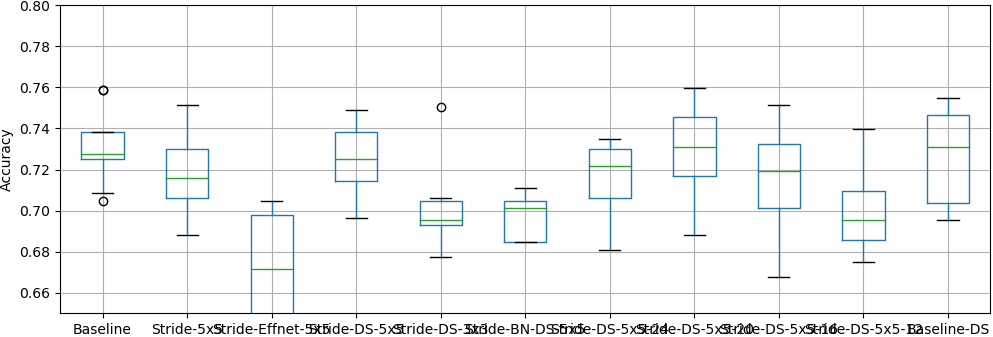
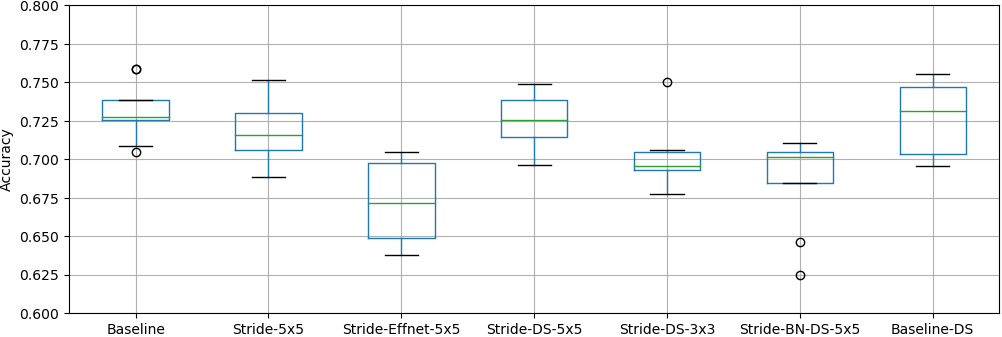
report: Split out the non-width models

diff --git a/microesc/report.py b/microesc/report.py
@@ -87,7 +87,7 @@ def get_accuracies(confusions):
     assert len(accs) == 9, len(accs) 
     return pandas.Series(accs) 
 
-def plot_accuracy_comparison(experiments, ylim=(0.65, 0.80), figsize=(12, 4)):
+def plot_accuracy_comparison(experiments, ylim=(0.60, 0.80), figsize=(12, 4)):
 
     df = experiments.copy()
     df.index = experiments.nickname
@@ -104,7 +104,7 @@ def plot_accuracy_comparison(experiments, ylim=(0.65, 0.80), figsize=(12, 4)):
 
     return fig
 
-def plot_accuracy_vs_compute(experiments, ylim=(0.65, 0.80),
+def plot_accuracy_vs_compute(experiments, ylim=(0.60, 0.80),
                                 perf_metric='utilization', figsize=(12,8)):
     # TODO: color experiment groups
     # TODO: add error bars?
@@ -228,15 +228,15 @@ def main():
     out_dir = args.out_dir
 
     df = load_results(input_dir)
-    acc = df.confusions_test.apply(get_accuracies).mean(axis=1)
-    df['test_acc_mean'] = acc
+
+    df['val_acc_mean'] = df.confusions_val.apply(get_accuracies).mean(axis=1)
+    df['test_acc_mean'] = df.confusions_test.apply(get_accuracies).mean(axis=1)
     df = df.sort_index()
 
     # TODO: add std-dev
+    df['foreground_val_acc_mean'] = df.confusions_val_foreground.apply(get_accuracies).mean(axis=1)
     df['foreground_test_acc_mean'] = df.confusions_test_foreground.apply(get_accuracies).mean(axis=1)
     df['background_test_acc_mean'] = df.confusions_test_background.apply(get_accuracies).mean(axis=1)
-
-
 
 
     #df['grouped_test_acc_mean'] = grouped_confusion(df.confusions_test, groups).apply(get_accuracies).mean(axis=1)
@@ -263,18 +263,22 @@ def main():
     else:
         df['utilization'] = 0.0
 
-    print('res\n', df[['nickname', 'test_acc_mean', 'maccs_frame', 'foreground_test_acc_mean', 'background_test_acc_mean']])
+    print('res\n', df[['nickname', 'maccs_frame', 'test_acc_mean', 'val_acc_mean']])
 
     def save(fig, name):
         p = os.path.join(out_dir, name)
         fig.savefig(p, bbox_inches='tight', pad_inches=0)
 
-    fig = plot_accuracy_comparison(df)
+
+    # Split the variations from all models
+    width_variations = df.nickname.str.startswith('Stride-DS-5x5-')
+    fig = plot_accuracy_comparison(df[width_variations != True])
     save(fig, 'models_accuracy.png')
 
     perf_metric = 'maccs_frame' if args.skip_device else 'utilization'
     fig = plot_accuracy_vs_compute(df, perf_metric=perf_metric)
     save(fig, 'models_efficiency.png')
+
 
     classnames = urbansound8k.classnames
     best = df.sort_values('test_acc_mean', ascending=False).head(1).iloc[0]

diff --git a/report/pyincludes/results.tex b/report/pyincludes/results.tex
@@ -1,17 +1,13 @@
-\begin{tabular}{llrrrr}
+\begin{tabular}{lrrrr}
 \toprule
-{} &              Model &  CPU (\%) &  Accuracy &  FG Accuracy &  BG Accuracy \\
+             Model &  CPU (\%) &  Accuracy &  FG Accuracy &  BG Accuracy \\
 \midrule
-0  &           Baseline &        0 &      73.1 &         84.3 &         49.6 \\
-1  &         Stride-5x5 &        0 &      71.9 &         82.1 &         50.2 \\
-2  &  Stride-Effnet-5x5 &        0 &      67.1 &         75.5 &         49.5 \\
-3  &      Stride-DS-5x5 &        0 &      72.5 &         81.3 &         54.0 \\
-4  &      Stride-DS-3x3 &        0 &      70.1 &         79.4 &         50.6 \\
-5  &   Stride-BN-DS-5x5 &        0 &      68.6 &         77.7 &         49.3 \\
-6  &   Stride-DS-5x5-24 &        0 &      71.5 &         81.3 &         50.7 \\
-7  &   Stride-DS-5x5-20 &        0 &      72.9 &         81.9 &         53.7 \\
-8  &   Stride-DS-5x5-16 &        0 &      71.6 &         80.9 &         51.8 \\
-9  &   Stride-DS-5x5-12 &        0 &      70.0 &         79.2 &         50.4 \\
-10 &        Baseline-DS &        0 &      72.7 &         84.0 &         48.8 \\
+          Baseline &        0 &      73.1 &         84.3 &         49.6 \\
+        Stride-5x5 &        0 &      71.9 &         82.1 &         50.2 \\
+ Stride-Effnet-5x5 &        0 &      67.1 &         75.5 &         49.5 \\
+     Stride-DS-5x5 &        0 &      72.5 &         81.3 &         54.0 \\
+     Stride-DS-3x3 &        0 &      70.1 &         79.4 &         50.6 \\
+  Stride-BN-DS-5x5 &        0 &      68.6 &         77.7 &         49.3 \\
+       Baseline-DS &        0 &      72.7 &         84.0 &         48.8 \\
 \bottomrule
 \end{tabular}

diff --git a/report/pyincludes/results.py b/report/pyincludes/results.py
@@ -7,6 +7,9 @@ import yaml
 df = pandas.read_csv('results/results.csv')
 print(df)
 
+width_variations = df.nickname.str.startswith('Stride-DS-5x5-')
+df = df[width_variations != True]
+
 table = pandas.DataFrame({
     'Model': df.nickname,
     'CPU (%)': (df.utilization * 100).astype(int),
@@ -15,7 +18,7 @@ table = pandas.DataFrame({
     'BG Accuracy': (df.background_test_acc_mean * 100).round(1),
 }, index=df.index)
 
-out = table.to_latex(header=True, index=True)
+out = table.to_latex(header=True, index=False)
 print(out)
 
 outpath = sys.argv[1] 

diff --git a/microesc/test.py b/microesc/test.py
@@ -203,7 +203,7 @@ def main():
     print("Found {} experiments across {} folds", n_folds, n_experiments)
 
     best = pick_best(history)
-    print('Best models\n', best[['epoch', 'voted_val_acc']])
+    print('Best models\n', best[['epoch', 'fold', 'voted_val_acc']])
 
     print('Computing model info')
     def get_stats(row):

diff --git a/report/report.md b/report/report.md
@@ -1282,17 +1282,11 @@ which would be ignored if only relying on the theoretical MACC number.
 ![Test accuracy of the different models](./results/models_accuracy.png){ height=30% }
 
 \begin{table}
+\centering
 \input{pyincludes/results.tex}
 \caption{Results for the compared models}
 \label{table:results}
 \end{table}
-
-
-`TODO: add results with Baseline with Depthwise Separable`
-
-`TODO: add results of different amounts of conv kernels for DS-5x5`
-
-`TODO: add results with Effnet (spatially separable)`
 
 ![Accuracy versus compute of different models](./results/models_efficiency.png){ height=30% }
 
@@ -1302,7 +1296,9 @@ which would be ignored if only relying on the theoretical MACC number.
 
 ![Confusion matrix in reduced groups with only foreground sounds](./results/grouped_confusion_test_foreground.png){ height=30% }
 
-`TODO: add error analysis. Are misclassifications marked as low-confidence?`
+`TODO: add error analysis plots`
+
+`TODO: plot MAC versus compute time`
 
 `TODO: plot training curves over epochs`
 

diff --git a/TODO.md b/TODO.md
@@ -10,9 +10,8 @@ Feedback needed
 
 Results
 
-- Move results output to report/results
-- Measure runtime on device for latest models
 - Split plots into different architectures, and different Strided-DS widths 
+- Measure runtime on device for latest models
 - Use Strided-DS-24 as chosen model (confusion matrix etc), instead of auto "best"
 - Make plots a bit prettier
 
@@ -45,6 +44,7 @@ Do they explain the figure setup/contents OK?
 
 - Fix test/validation sets.
 - Remove duplicated 24 filter model
+- Plot performance of models relative to fold
 - MAYBE: Profile to see what makes training slow
 
 Abstract
